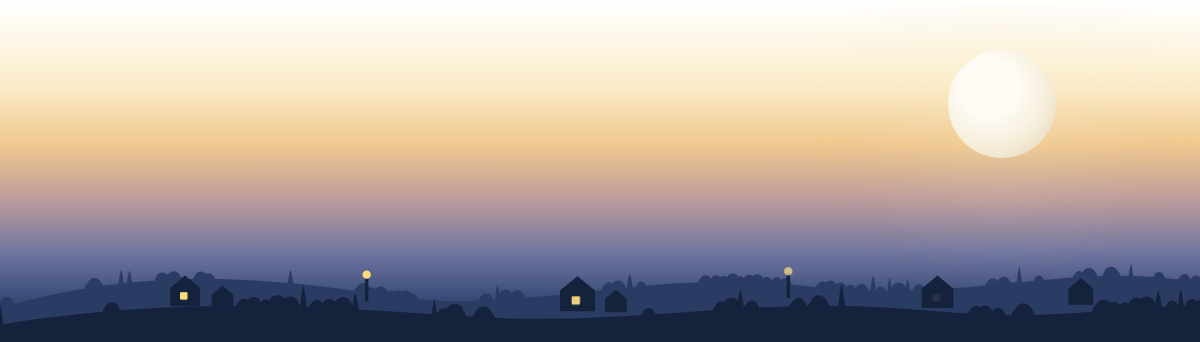
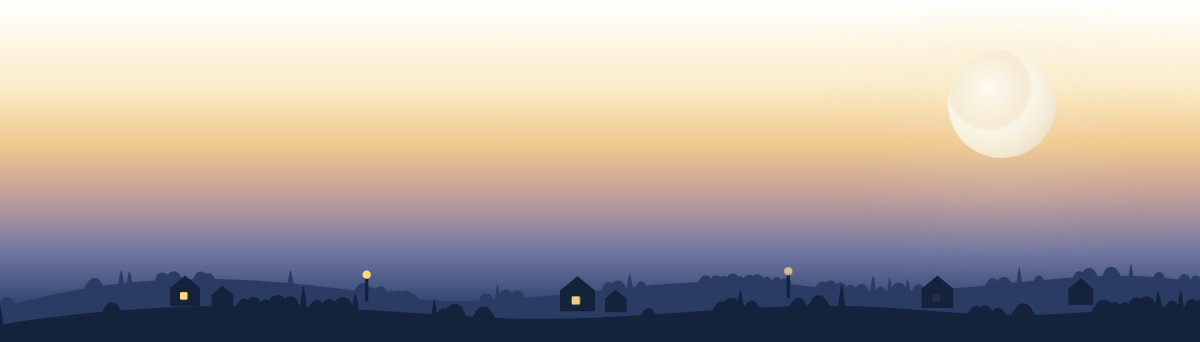
Dark mode: the dusk sun stays a solid moon when an app darkens the page
Claude-Session: https://claude.ai/code/session_014XQDqDrFxDzUKbRyDgVZmh

Changed region(s): [[0.7708, 0.1462, 0.8633, 0.3801]]

diff --git a/tools/dark-safe-art.py b/tools/dark-safe-art.py
@@ -76,13 +76,38 @@ DECOR_BASES = {
 }
 
 
+# pictures with a shape lighter than the paper (the dusk sun): it stays solid, a moon on a dark page
+DECOR_LIGHT_SHAPES = {"dusk-top.png"}
+
+
+def light_shapes(rgb, base, grow=8):
+    """Solid mask for shapes lighter than `base`: from the pixels clearly lighter than it, grow
+    through everything about as light, stopping at the darker sky around it."""
+    from PIL import ImageFilter
+    w = np.array([0.299, 0.587, 0.114])
+    luma, paper = rgb.astype(float) @ w, base @ w
+    near = luma > paper - grow
+    region = luma > paper + 3
+    while True:
+        im = Image.fromarray((region * 255).astype(np.uint8), "L").filter(ImageFilter.MaxFilter(3))
+        grown = (np.asarray(im) > 0) & near
+        if (grown == region).all():
+            break
+        region = grown
+    im = Image.fromarray((region * 255).astype(np.uint8), "L").filter(ImageFilter.GaussianBlur(1.5))
+    return np.asarray(im).astype(float) / 255
+
+
 def decor(folder):
     for name, base in DECOR_BASES.items():
         f = os.path.join(folder, name)
         if not os.path.exists(f) or has_alpha(f):
             continue
         rgb = np.asarray(Image.open(f).convert("RGB"))
-        n = save(color_to_alpha(rgb, hexrgb(base)), f)
+        if name in DECOR_LIGHT_SHAPES:
+            n = save(_cut(rgb.astype(float), hexrgb(base), 0, boost=0, solid=light_shapes(rgb, hexrgb(base))), f)
+        else:
+            n = save(color_to_alpha(rgb, hexrgb(base)), f)
         print(f"  {os.path.relpath(f, ROOT)}: see-through on {base} ({n // 1024}KB)")
 
 
